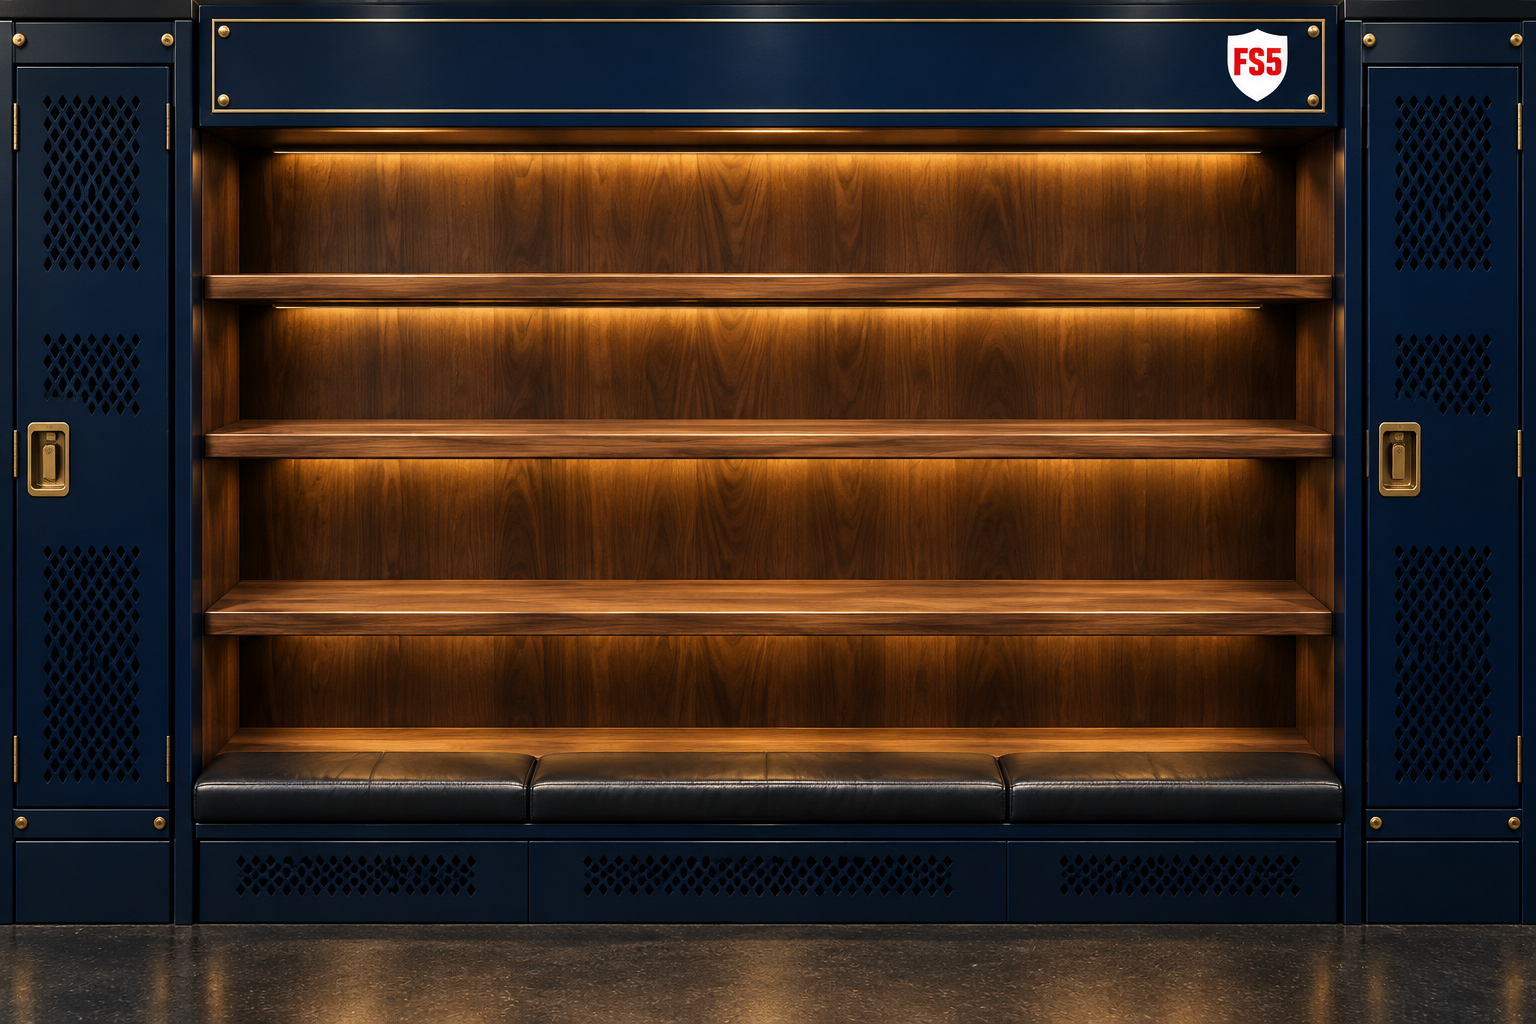
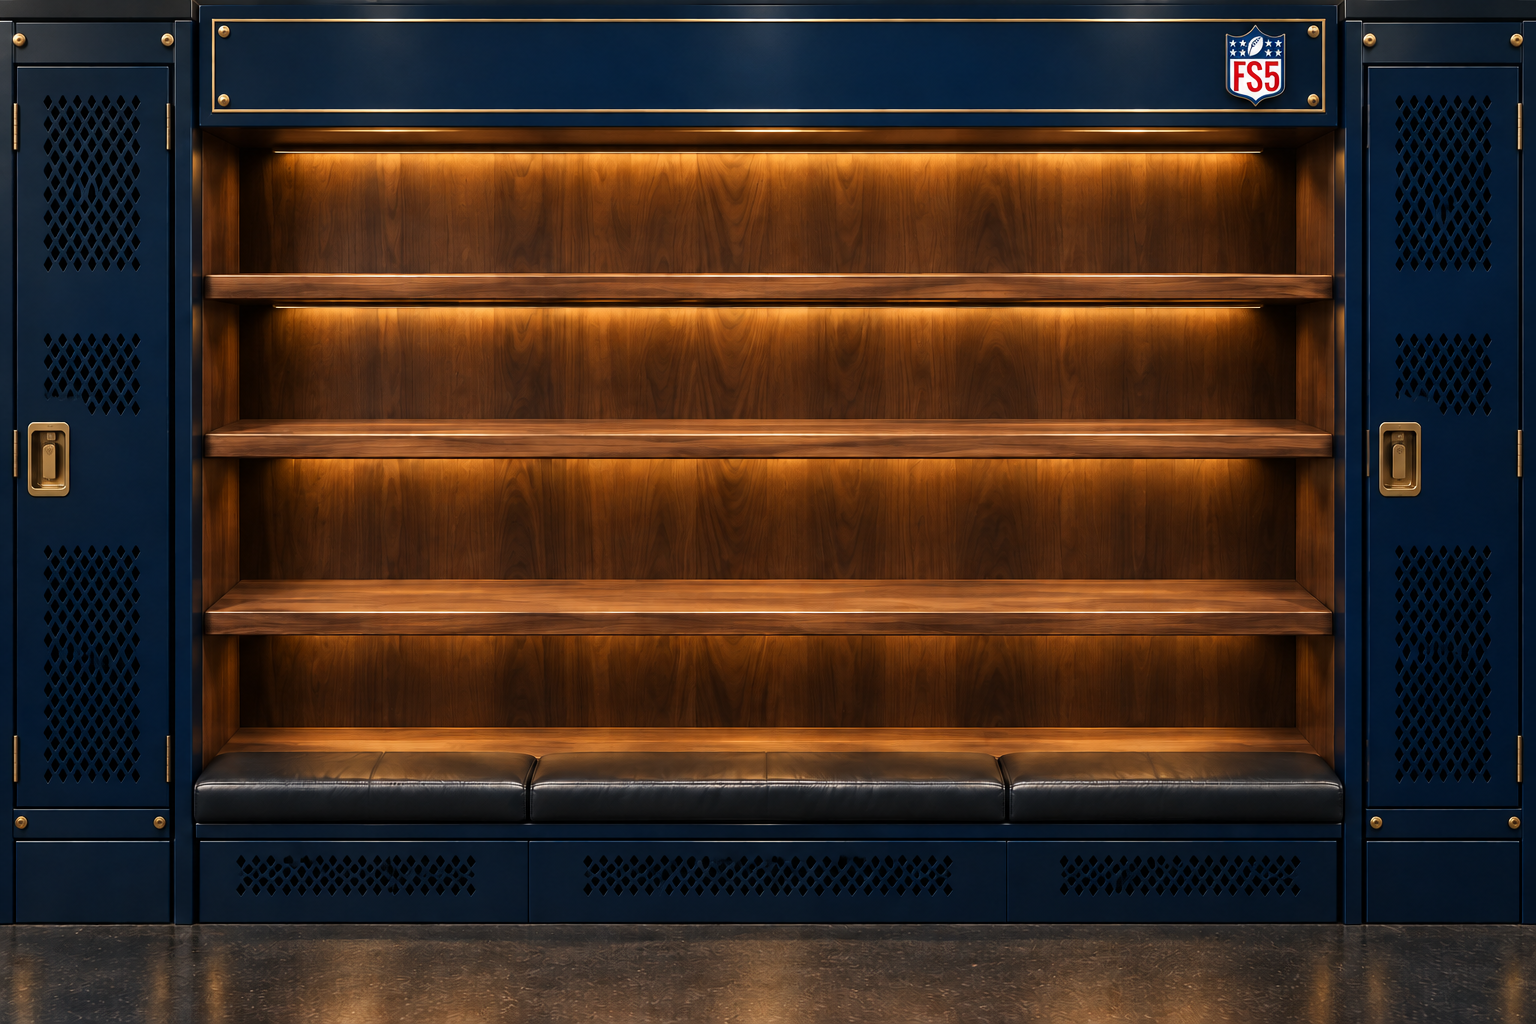
Integrate FS5 shield into locker artwork

diff --git a/owners/ownerstyle.css b/owners/ownerstyle.css
@@ -3652,20 +3652,6 @@ body.owners-dark .row3 > .game-records-container.team-game-records .game-records
     text-shadow:0 2px 3px rgba(0,0,0,.9);
     white-space:nowrap;
 }
-.owner-locker__brand {
-    position:absolute;
-    top:16%;
-    right:1.4%;
-    z-index:1;
-    display:block;
-    width:clamp(36px, 4.8vw, 62px);
-    height:auto;
-    padding:3px;
-    box-sizing:border-box;
-    border-radius:2px;
-    background:#0c1a28;
-    filter:drop-shadow(0 2px 2px rgba(0,0,0,.6));
-}
 .owner-locker__locker-header span,
 .owner-locker__locker-header i { display:none; }
 .owner-locker__shelves {
@@ -3716,7 +3702,7 @@ body.owners-dark .row3 > .game-records-container.team-game-records .game-records
 .locker-object img {
     width:126px;
     height:126px;
-    transform:translateY(8px);
+    transform:translateY(3px);
     filter:drop-shadow(0 3px 2px rgba(0,0,0,.8));
 }
 .locker-collectible:hover,
@@ -3726,13 +3712,12 @@ body.owners-dark .row3 > .game-records-container.team-game-records .game-records
     .owner-locker__cabinet { width:100%; min-height:0; }
     .owner-locker__locker-header { padding:0 7%; }
     .owner-locker__locker-header strong { font-size:clamp(.72rem, 4.4vw, 1.05rem); letter-spacing:.1em; }
-    .owner-locker__brand { width:clamp(30px, 11vw, 45px); padding:2px; }
     .owner-locker__shelves { top:15%; right:13.2%; bottom:27%; left:13.2%; }
     .owner-locker__shelf { padding:0 1%; }
     .owner-locker__shelf-items { height:100%; min-height:0; gap:1px; }
     .locker-collectible__object,
     .locker-object { height:clamp(48px, 16vw, 86px); }
-    .locker-object img { width:clamp(48px, 16vw, 86px); height:clamp(48px, 16vw, 86px); transform:translateY(5px); }
+    .locker-object img { width:clamp(48px, 16vw, 86px); height:clamp(48px, 16vw, 86px); transform:translateY(2px); }
 }
 
 @media (max-width: 765px) { .owners-theme-toolbar { width:min(100% - 24px,680px); margin:10px auto 2px; } }

diff --git a/owners/index.html b/owners/index.html
@@ -6,7 +6,7 @@
     <link rel="apple-touch-icon" sizes="180x180" href="/artwork/fs5-ios-icon.png">
     <link rel="manifest" href="/site.webmanifest">
     <title>FastStrongFive Fantasy Football League</title>
-    <link rel="stylesheet" href="ownerstyle.css?v=fs5-wide-locker-template-v2-20260918">
+    <link rel="stylesheet" href="ownerstyle.css?v=fs5-wide-locker-template-v3-20260918">
     <link rel="stylesheet" href="../common.css">
     <script src="https://cdn.jsdelivr.net/npm/@supabase/supabase-js@2"></script>
     <script src="../supabase-config.js"></script>
@@ -494,7 +494,7 @@
     </div>
     <div class="owner-locker__cabinet">
         <div class="owner-locker__stadium-light" aria-hidden="true"></div>
-        <div class="owner-locker__locker-header" aria-hidden="true"><strong data-owner-locker-nameplate>FS5 GAME DAY</strong><img class="owner-locker__brand" src="../artwork/logo.png" alt=""><span>FS5</span><i></i><i></i><i></i></div>
+        <div class="owner-locker__locker-header" aria-hidden="true"><strong data-owner-locker-nameplate>FS5 GAME DAY</strong><span>FS5</span><i></i><i></i><i></i></div>
         <div id="owner-locker-shelves" class="owner-locker__shelves"></div>
         <div class="owner-locker__floor" aria-hidden="true"></div>
     </div>
